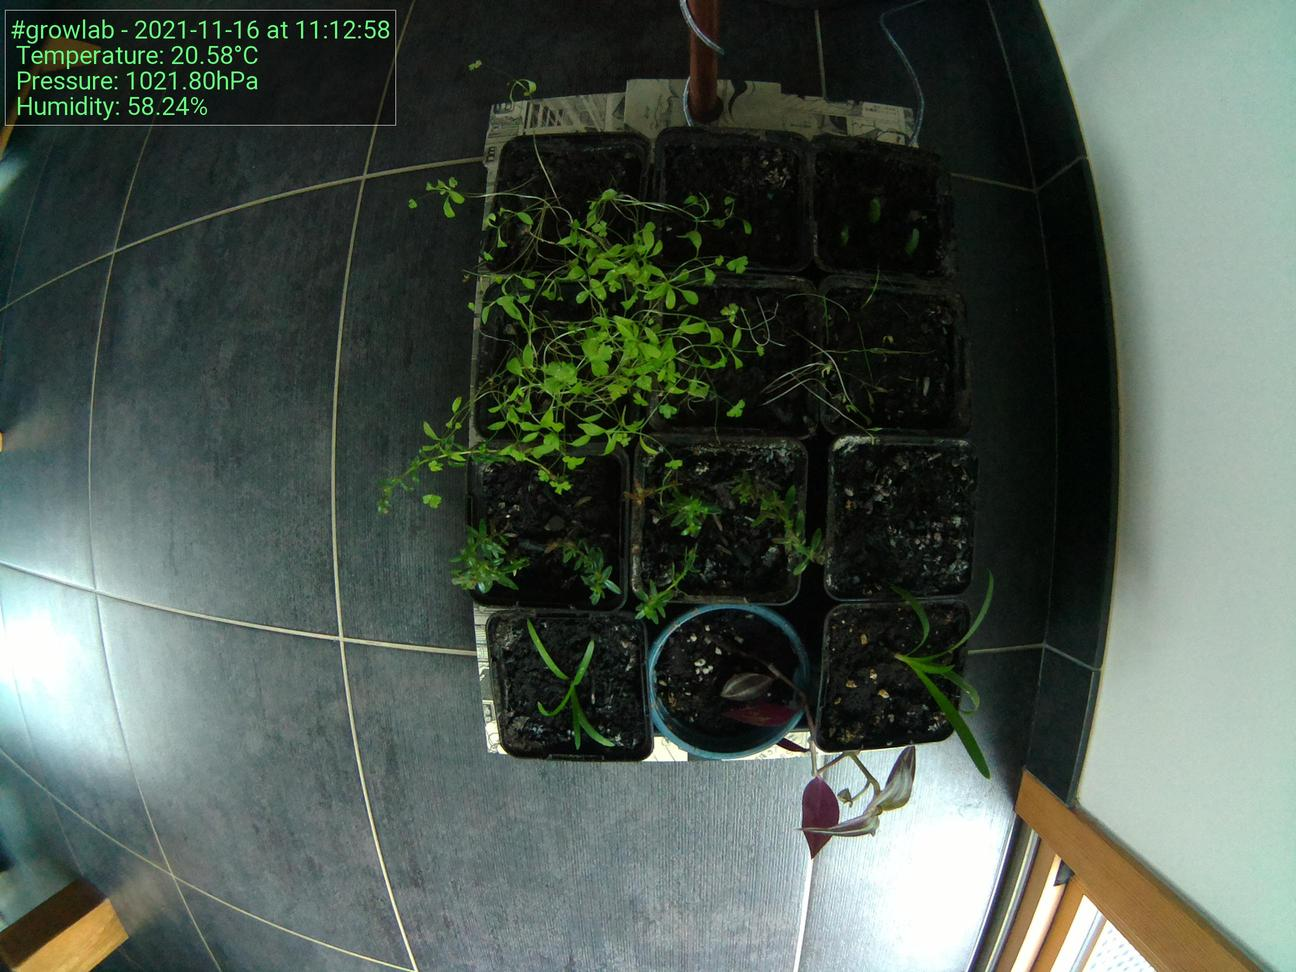
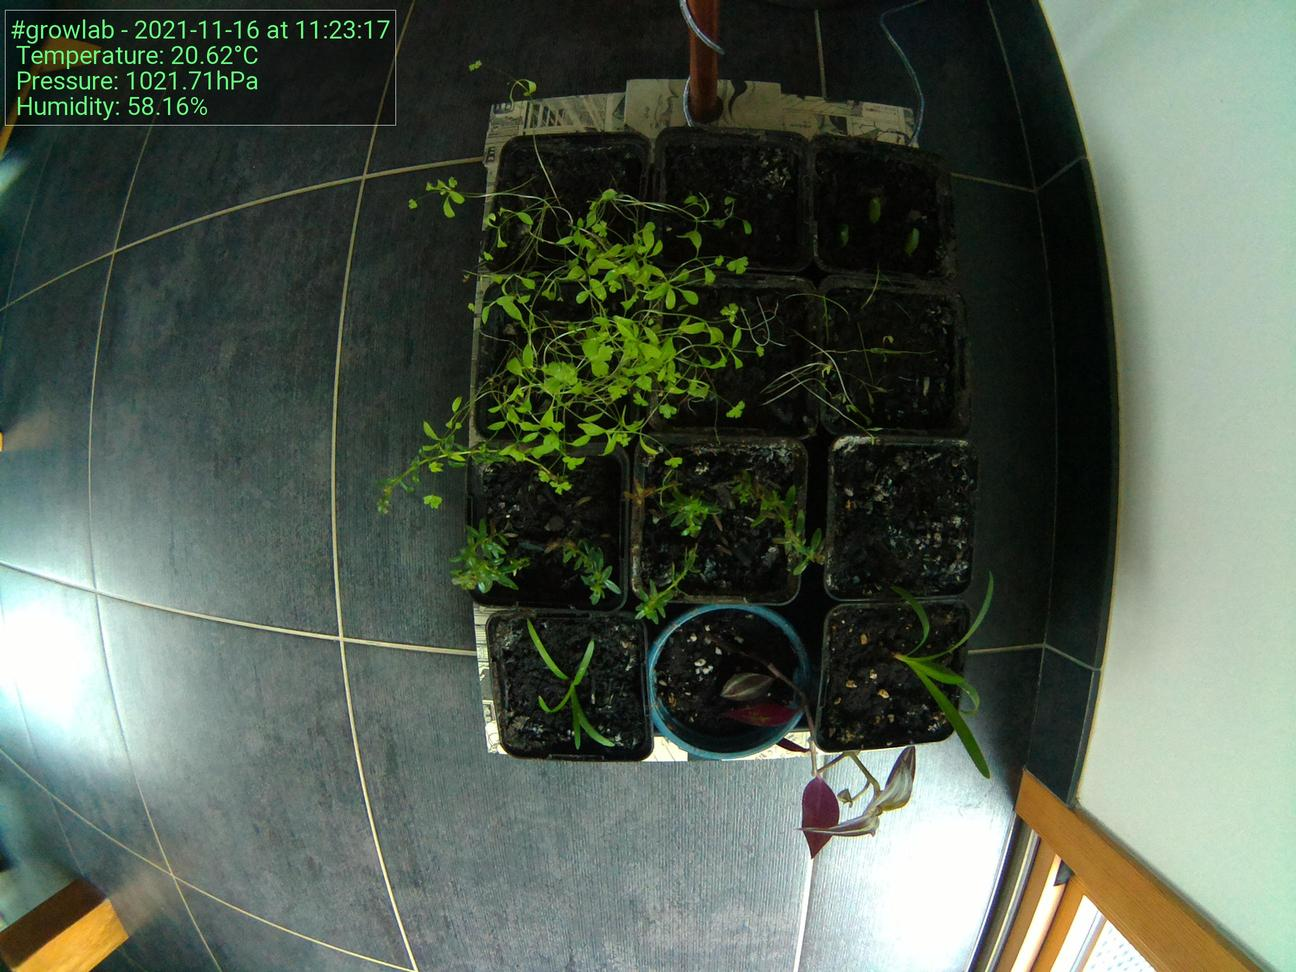
Update images at Tue 16 Nov 11:23:26 CET 2021

diff --git a/docs/index.html b/docs/index.html
@@ -52,19 +52,19 @@
                             </tr>
                             <tr>
                                 <td>Time</td>
-                                <td>11:12:58</td>
+                                <td>11:23:17</td>
                             </tr>
                             <tr>
                                 <td>Temperature</td>
-                                <td>20.58°C</td>
+                                <td>20.62°C</td>
                             </tr>
                             <tr>
                                 <td>Humidity</td>
-                                <td>58.24%</td>
+                                <td>58.16%</td>
                             </tr>
                             <tr>
                                 <td>Pressure</td>
-                                <td>1021.80hPa</td>
+                                <td>1021.71hPa</td>
                             </tr>
                         </tbody>
                     </table>
@@ -72,7 +72,7 @@
 
                 <h5>Latest image</h5>
                 <div style="width: 85%;">
-                            <img class="figure-img img-fluid rounded" src="./preview.jpg?uid=1637057591.4770904">
+                            <img class="figure-img img-fluid rounded" src="./preview.jpg?uid=1637058206.0157046">
                 </div>
             </div>
         </div>
